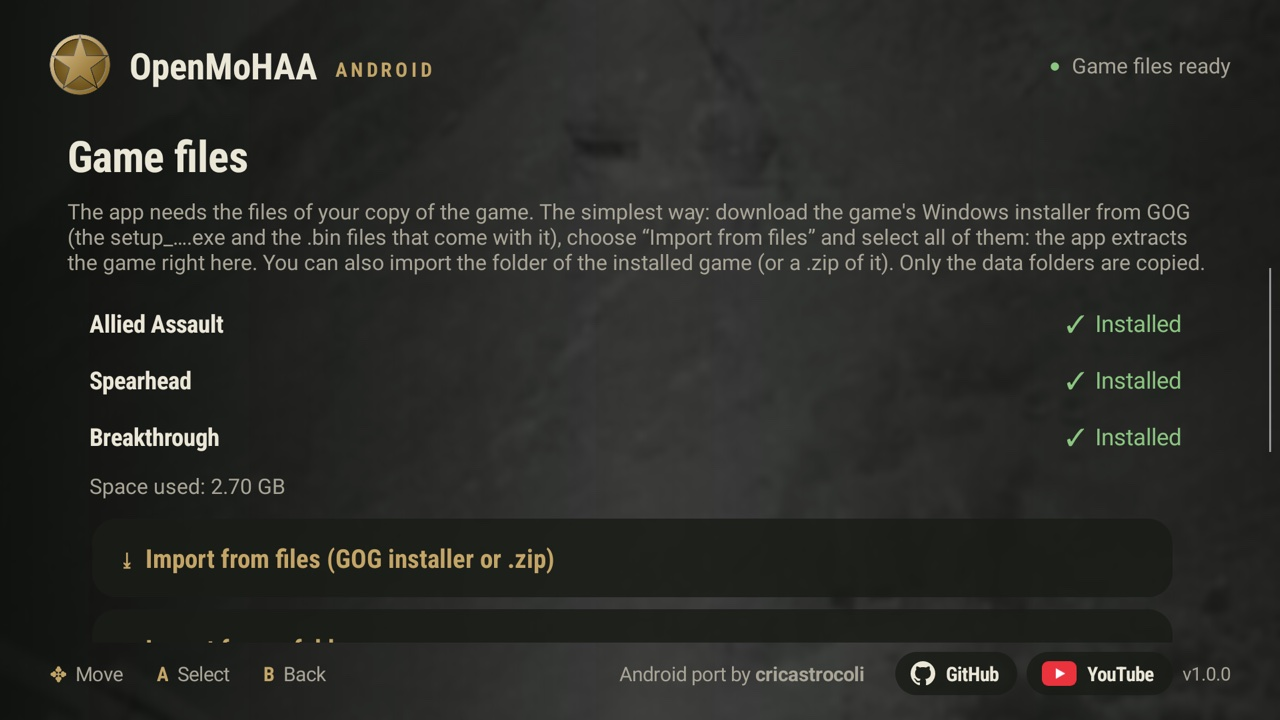
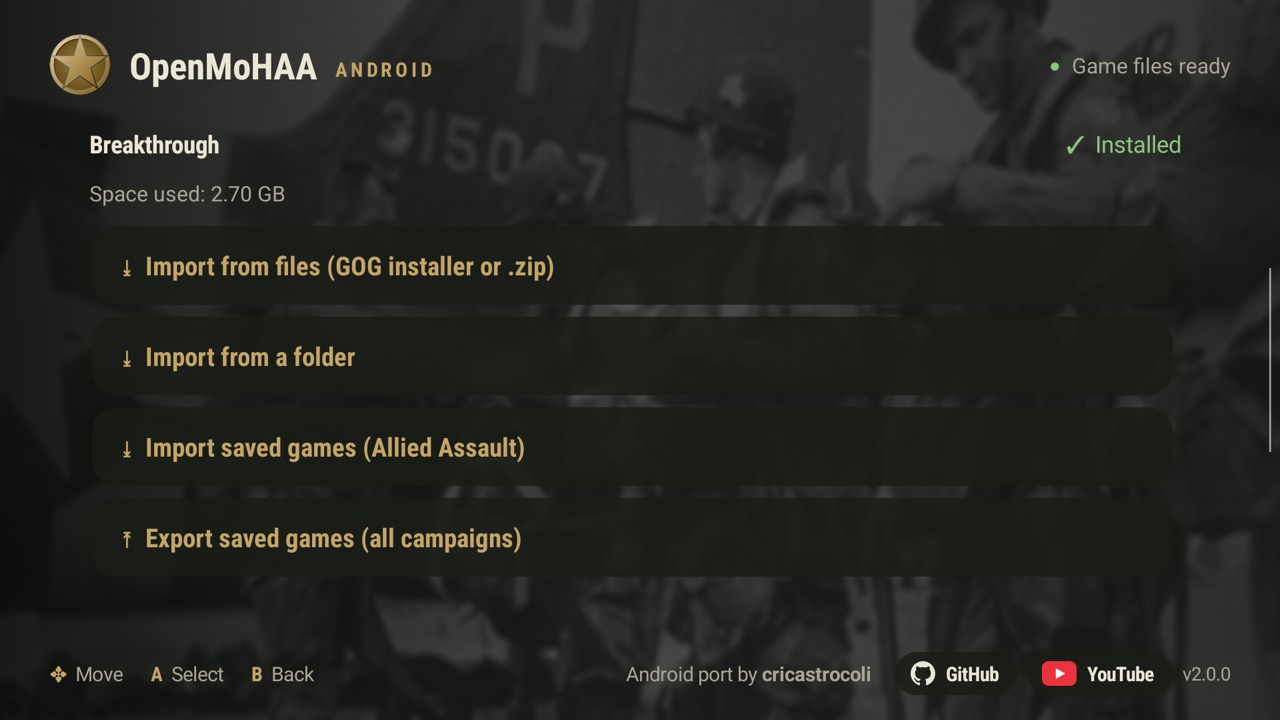
Release 2.0.0
Online and LAN multiplayer, aim assist, gyro aiming, aspect ratio options
(widescreen, menus in 4:3, 4:3), graphics presets, HUD size, scanlines,
save export, on-screen keyboard, aim speed by aspect ratio, settings in
sections, and fixes (server browser crash, switched-off mods still
loading). The engine is pinned to rp6-android c60436d9. READMEs and
screenshots updated.

diff --git a/README.md b/README.md
@@ -14,27 +14,31 @@ computer needed.
 
 ## Highlights
 
-- 🆕 **Install straight from the GOG installer, on the device.** Download the Windows
-  installer (the `setup_….exe` and its `.bin` files), pick them in the launcher, done: the app
-  extracts the game by itself. On a Retroid Pocket 6 this takes about **70 seconds** for all
-  three games (2.7 GB).
-- 🆕 **Up to 120 FPS** on 120 Hz screens, with 30, 60 (default), 90, 120 or unlimited. Above
-  60, the app asks the screen for its fastest refresh rate, and tells you if the device's
-  settings hold it at 60 Hz.
-- 🆕 **The M1 Garand rifle reloads at any time.** In the original game it only reloads when
-  its clip is empty; here it reloads like the other weapons, without losing rounds. Off by
-  default, to keep the original behaviour; switch it on in **Settings** (campaign only).
-- 🆕 **Refined analog aiming** for controllers: radial dead zone, response curve and a turn
-  boost when the stick is held at its edge (for quick turns), with adjustable speed.
-- 🆕 **Remappable buttons**: any action on any button, right in the launcher.
-- 🆕 **Adjustable resolution**: native, 1600×900, 1280×720 or 960×540 (lower resolutions save
-  battery; the picture is scaled up to the whole screen).
-- 🆕 **Mods and translations**, imported through the launcher, switched on and off, a set per
-  game.
-- 🆕 **Spearhead and Breakthrough**: pick the campaign on the home page (LB / RB).
-- 🆕 **Touch controls** for phones without a controller (optional, automatic), and tap to
-  choose in the game's menus.
-- Allied Assault, Spearhead and Breakthrough in one app, all three tested.
+🆕 marks what's new in 2.0.
+
+- 🆕 **Online and LAN multiplayer**: browse the internet servers (over 200 listed), join a
+  match, or host one on your local network for another device.
+- 🆕 **Aim assist** (campaign only, optional): the crosshair slows down and follows an enemy
+  when it passes over one, with a light nudge toward the chest. You still do the aiming.
+- 🆕 **Gyro aiming**: turn or tilt the device to aim. On by default when there's no
+  controller.
+- 🆕 **Aspect ratio**: widescreen, **menus in 4:3** (menus and videos unstretched, play in
+  widescreen) or 4:3, like the original on a CRT.
+- 🆕 **Graphics presets** (low to very high), a **bigger HUD** for small screens and a
+  **scanline filter**.
+- 🆕 **Export saved games** to carry them to another device or a PC.
+- 🆕 **On-screen keyboard** in the game (Select + Start, or a button with touch controls), for
+  player names, server addresses and the console.
+- **Install straight from the GOG installer, on the device.** Download the Windows installer
+  (the `setup_….exe` and its `.bin` files), pick them in the launcher, done: the app extracts
+  the game by itself. On a Retroid Pocket 6 this takes about **70 seconds** for all three
+  games (2.7 GB).
+- **Up to 120 FPS** on 120 Hz screens.
+- **Touch controls** for phones without a controller, **remappable buttons**, refined analog
+  aiming, **mods and translations**, and the M1 Garand that **reloads at any time**
+  (optional).
+- Allied Assault, Spearhead and Breakthrough in one app, all three tested, on 16:9 and 4:3
+  screens.
 
 <p>
   <img src="docs/screenshots/game-1.jpg" width="32%" alt="M1 Garand at night">
@@ -43,6 +47,34 @@ computer needed.
 </p>
 
 *Running on a Retroid Pocket 6 (with the Brazilian Portuguese translation mod).*
+
+<p>
+  <img src="docs/screenshots/nova.jpg" width="49%" alt="A mission on the 4:3 screen of a Retroid Pocket Nova">
+  <img src="docs/screenshots/scanlines.jpg" width="49%" alt="A mission with the light scanline filter">
+</p>
+
+*Left: on a Retroid Pocket Nova (4:3). Right: the light scanline filter.*
+
+## Multiplayer
+
+🆕 The game's own multiplayer menus work: **Join Internet Game** lists the servers from the
+community master servers (the original GameSpy ones are long gone), and **Join LAN Game**
+finds matches on your network. To host one, use **Start Game** in the multiplayer room and
+leave **Dedicated server** unticked (a dedicated server has no player, so on a handheld the
+screen just stops).
+
+<p>
+  <img src="docs/screenshots/online-servers.jpg" width="49%" alt="The internet server list">
+  <img src="docs/screenshots/online-match.jpg" width="49%" alt="An online match">
+</p>
+<p>
+  <img src="docs/screenshots/online-lan-rp6.jpg" width="49%" alt="A LAN match seen on a Retroid Pocket 6">
+  <img src="docs/screenshots/online-lan-nova.jpg" width="49%" alt="The same LAN match seen on a Retroid Pocket Nova">
+</p>
+
+*A LAN match between a Retroid Pocket 6 (left) and a Retroid Pocket Nova (right).*
+
+Aim assist never works in multiplayer.
 
 ## New in this port
 
@@ -55,7 +87,7 @@ Everything below was made for this Android version:
 - Fully usable with a controller (D-pad, A, B, LB / RB), and by touch.
 - English and Brazilian Portuguese, following the device's language.
 - Credits when the game starts.
-- 🆕 Updates from inside the app (from 1.2.1 on): when a new version is out, the home page says
+- Updates from inside the app (from 1.2.1 on): when a new version is out, the home page says
   so; one tap downloads it and Android asks you to confirm the update (the first time, also to
   let the app install updates). Your game files, saves and settings stay. It checks this
   project's GitHub release page at most once a day; nothing about you or your device is sent.
@@ -64,7 +96,7 @@ Everything below was made for this Android version:
 
 ![Game files](docs/screenshots/en-files.jpg)
 
-- 🆕 **GOG installer** (`setup_….exe` + `.bin`): extracted on the device with
+- **GOG installer** (`setup_….exe` + `.bin`): extracted on the device with
   [innoextract](https://constexpr.org/innoextract/). Only the game's data folders (`main`,
   `mainta`, `maintt`) are taken. The app checks the free space first and tells you if a part
   of the installer is missing.
@@ -72,9 +104,11 @@ Everything below was made for this Android version:
 - A `.zip` of the game's folder (or of its `main` folder).
 - Importing again skips what is already there, so an interrupted import picks up where it
   stopped.
-- 🆕 **Import saved games** from a PC or another device: the `.sav` files (with their `.ssv`
+- **Import saved games** from a PC or another device: the `.sav` files (with their `.ssv`
   and `.tga`), or a `.zip` of the `save` folder. A zip's `main`, `mainta` or `maintt` folders
   send each save to the right game.
+- 🆕 **Export saved games**: every campaign's saves in one `.zip`, saved where you choose. It
+  imports on another device, or unpacks into OpenMoHAA's folder on a PC.
 
 ### Settings
 
@@ -83,11 +117,30 @@ Everything below was made for this Android version:
 | Option | Values |
 |---|---|
 | Game | Allied Assault, Spearhead, Breakthrough (the installed ones) |
-| Resolution | Native, 1600×900, 1280×720, 960×540 |
+| **Video** | |
+| Resolution | Native, or 900, 720 or 540 lines (the width follows the screen's shape) |
+| 🆕 Aspect ratio | Widescreen, **menus in 4:3**, 4:3 (4:3 screens start on 4:3) |
+| 🆕 Graphics quality | Custom (the game's menus), low, medium, **high**, very high |
 | Frame rate | 30, **60** (default), 90, **120**, unlimited |
+| 🆕 HUD size | 100%, **125%** (default), 150% |
+| 🆕 Scanline filter | **Off**, light, medium, strong |
+| **Gameplay** | |
+| 🆕 Aim assist | On / **off** (campaign only) |
 | Aim speed | 50% to 150% |
+| 🆕 Gyro aiming | **Automatic** (medium without a controller, off with one), off, low, medium, high |
 | Invert vertical aim | On / off |
 | Reload the rifle at any time | On / **off** (default) |
+
+- 🆕 **Aim speed feels the same on any screen shape**: the game shows more to the sides on
+  wider screens, so the turn rate is adjusted for the picture's aspect ratio (16:9 being the
+  reference).
+- 🆕 **Graphics presets** set texture detail and filtering, level of detail, shadows,
+  effects, decals and smoke. A new install starts on High (the game's defaults); if you
+  already played, Custom keeps what you set in the game's own menus.
+- 🆕 **Menus in 4:3**: the game's menus and videos were drawn for 4:3 and stretched on wide
+  screens; this draws them in a 4:3 area with black sides, and play stays widescreen.
+
+![The main menu in 4:3 on a widescreen Retroid Pocket 6](docs/screenshots/menus-43.jpg)
 
 ### Controls
 
@@ -114,6 +167,7 @@ Defaults (every button can be changed on the **Controls** page):
 | Start | Menu |
 | Select | Objectives |
 | Select + LB / Select + RB | Quick save / quick load |
+| 🆕 Select + Start | On-screen keyboard (open / close) |
 | Android Back button | Menu |
 
 Crouch and walk are **toggles** rather than held, which is easier on a handheld.
@@ -135,6 +189,9 @@ the D-pad works as the arrow keys. After a level loads, the pointer is already o
 
 ### Fixes in the game
 
+- 🆕 Online play: the server browser no longer crashes the game, and it lists servers again.
+- 🆕 Switching a mod off really turns it off (the engine kept loading switched-off files).
+- 🆕 The HUD on 4:3 screens is the same size as on 16:9 ones.
 - Saving: when the game can't save (no space, for example), it says so, instead of showing
   "Game saved" anyway.
 - The game's message boxes are larger and readable on small screens.
@@ -143,25 +200,27 @@ the D-pad works as the arrow keys. After a level loads, the pointer is already o
 
 ![On-screen touch controls in a mission, on a Galaxy S23](docs/screenshots/touch.jpg)
 
-🆕 For playing on a phone without a controller. By default (**Automatic**) the on-screen
-controls show only while no controller is connected: plug one in or pair it, even mid-game,
-and they go away. Change it on the **Controls** page: Automatic, **Always** or **Never** (the
-screen ignores touches, so a stray touch does nothing).
+For playing on a phone without a controller. By default (**Automatic**) the on-screen controls
+show only while no controller is connected: plug one in or pair it, even mid-game, and they
+go away. Change it on the **Controls** page: Automatic, **Always** or **Never** (the screen
+ignores touches, so a stray touch does nothing).
 
 - **Move:** the left part of the screen; a stick appears where your thumb lands.
 - **Aim:** drag anywhere on the right part, including from the buttons. Slow drags are
-  precise; fast swipes turn faster, for quick turns.
+  precise; fast swipes turn faster, for quick turns. 🆕 With **gyro aiming**, turning the
+  phone fine-tunes the aim.
 - **Buttons:** fire and aim (held), reload, jump, crouch, use, weapon (which also picks
   the grenade), item and menu.
   Fire, aim and jump act as soon as they are touched; the others act on a tap, and a drag
   that starts on them turns the view instead.
+- 🆕 **Keyboard:** the button at the left edge opens Android's keyboard (it moves clear of a
+  front camera in the screen).
 - **Menus:** tap what you want, as on any app (also with a controller connected, unless
-  touch is set to Never).
+  touch is set to Never). 🆕 Without a controller, the launcher's pages have a back button.
 
 A controller is still the best way to play: aiming with a stick is more precise.
 
-This is the first version of the touch controls. Feedback and suggestions are welcome in
-[Issues](../../issues).
+![Typing a player name with Android's keyboard](docs/screenshots/keyboard.jpg)
 
 ## Requirements
 
@@ -179,8 +238,9 @@ This is the first version of the touch controls. Feedback and suggestions are we
 | Device | Chip | Result |
 |---|---|---|
 | Retroid Pocket 6 | Snapdragon 8 Gen 2 (QCS8550) | Native resolution (1080p), 120 FPS |
+| Retroid Pocket Nova | Snapdragon 8 Gen 2 (QCS8550) | Native resolution (1280×960, 4:3), 120 FPS |
 | Retroid Pocket 5 | Snapdragon 865 | Native resolution (1080p), steady 60 FPS |
-| Samsung Galaxy S23 (Android 16) | Snapdragon 8 Gen 2 | Native resolution, screen at 120 Hz; installed from the GOG installer in about 2 minutes |
+| Samsung Galaxy S23 (Android 16) | Snapdragon 8 Gen 2 | Native resolution, 120 FPS; installed from the GOG installer in about 2 minutes |
 
 Other devices with similar chips should work. Reports are welcome in
 [Issues](../../issues).
@@ -204,7 +264,8 @@ it) to the device and use **Import from a folder** or **Import from files**.
 
 ## Known issues
 
-- Multiplayer hasn't been tested.
+- Hosting on Android works for LAN matches; hosting for the internet hasn't been tested.
+- Multiplayer has been tested on a few public servers and in LAN matches between two devices.
 
 ## Building from source
 
